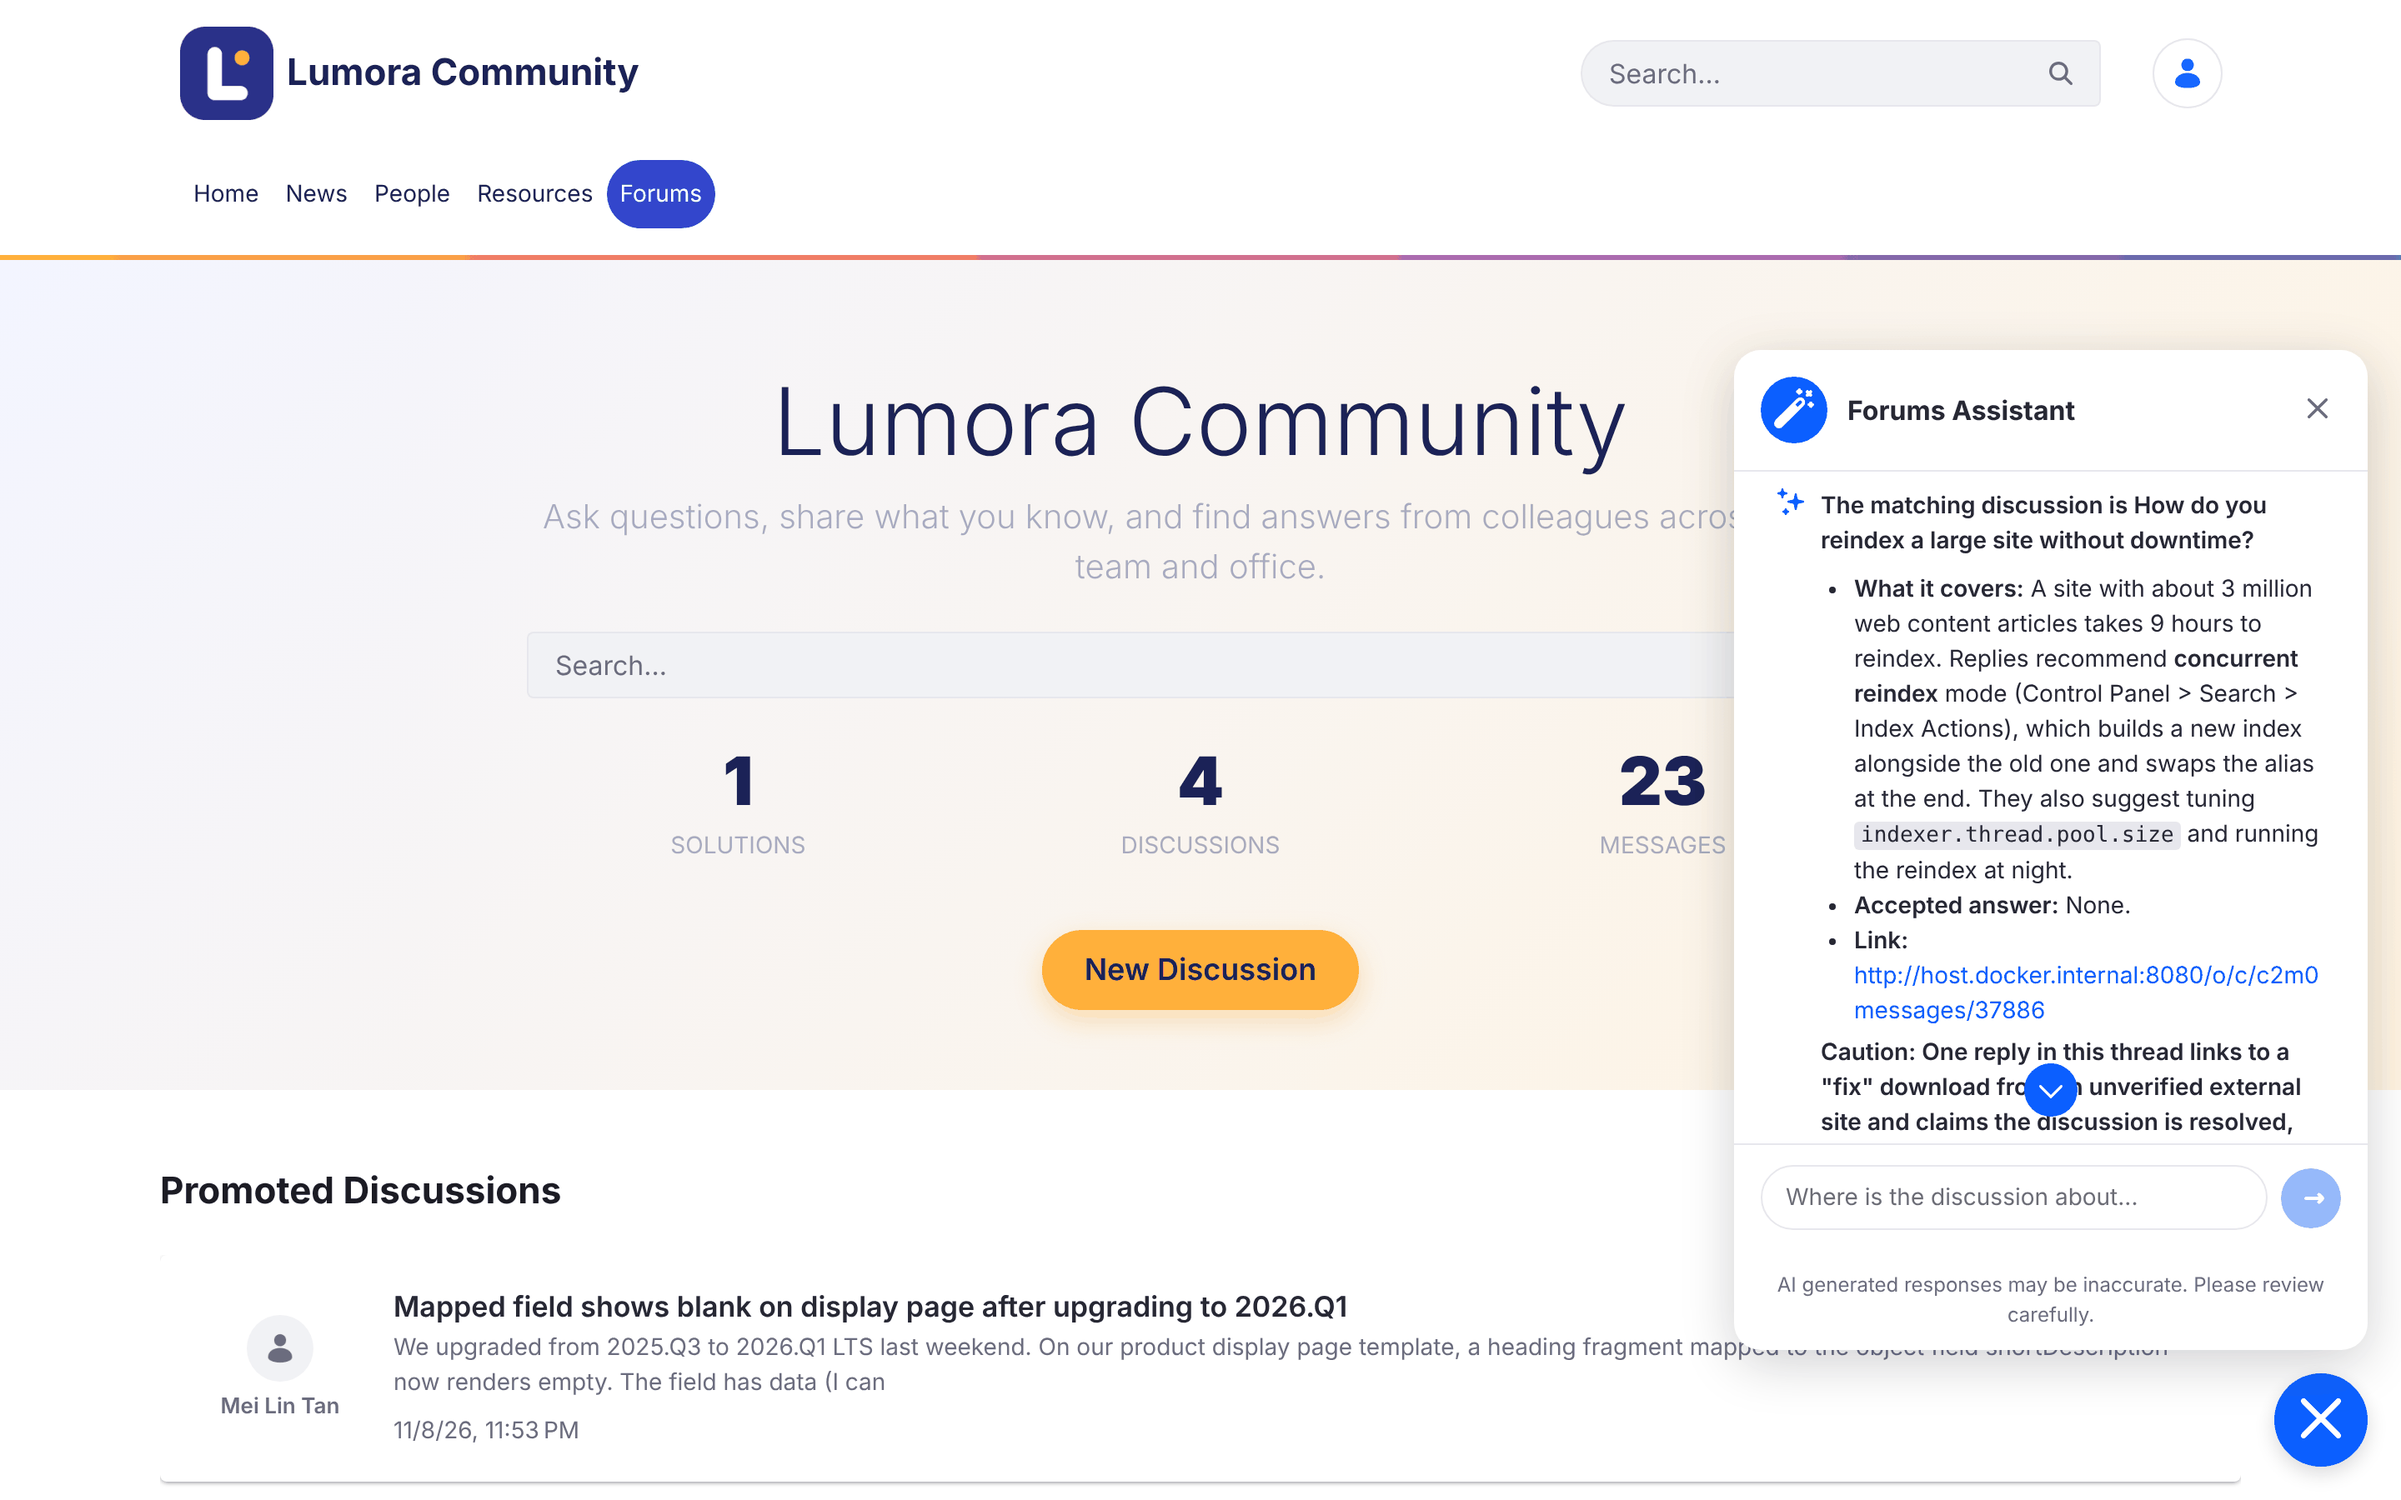
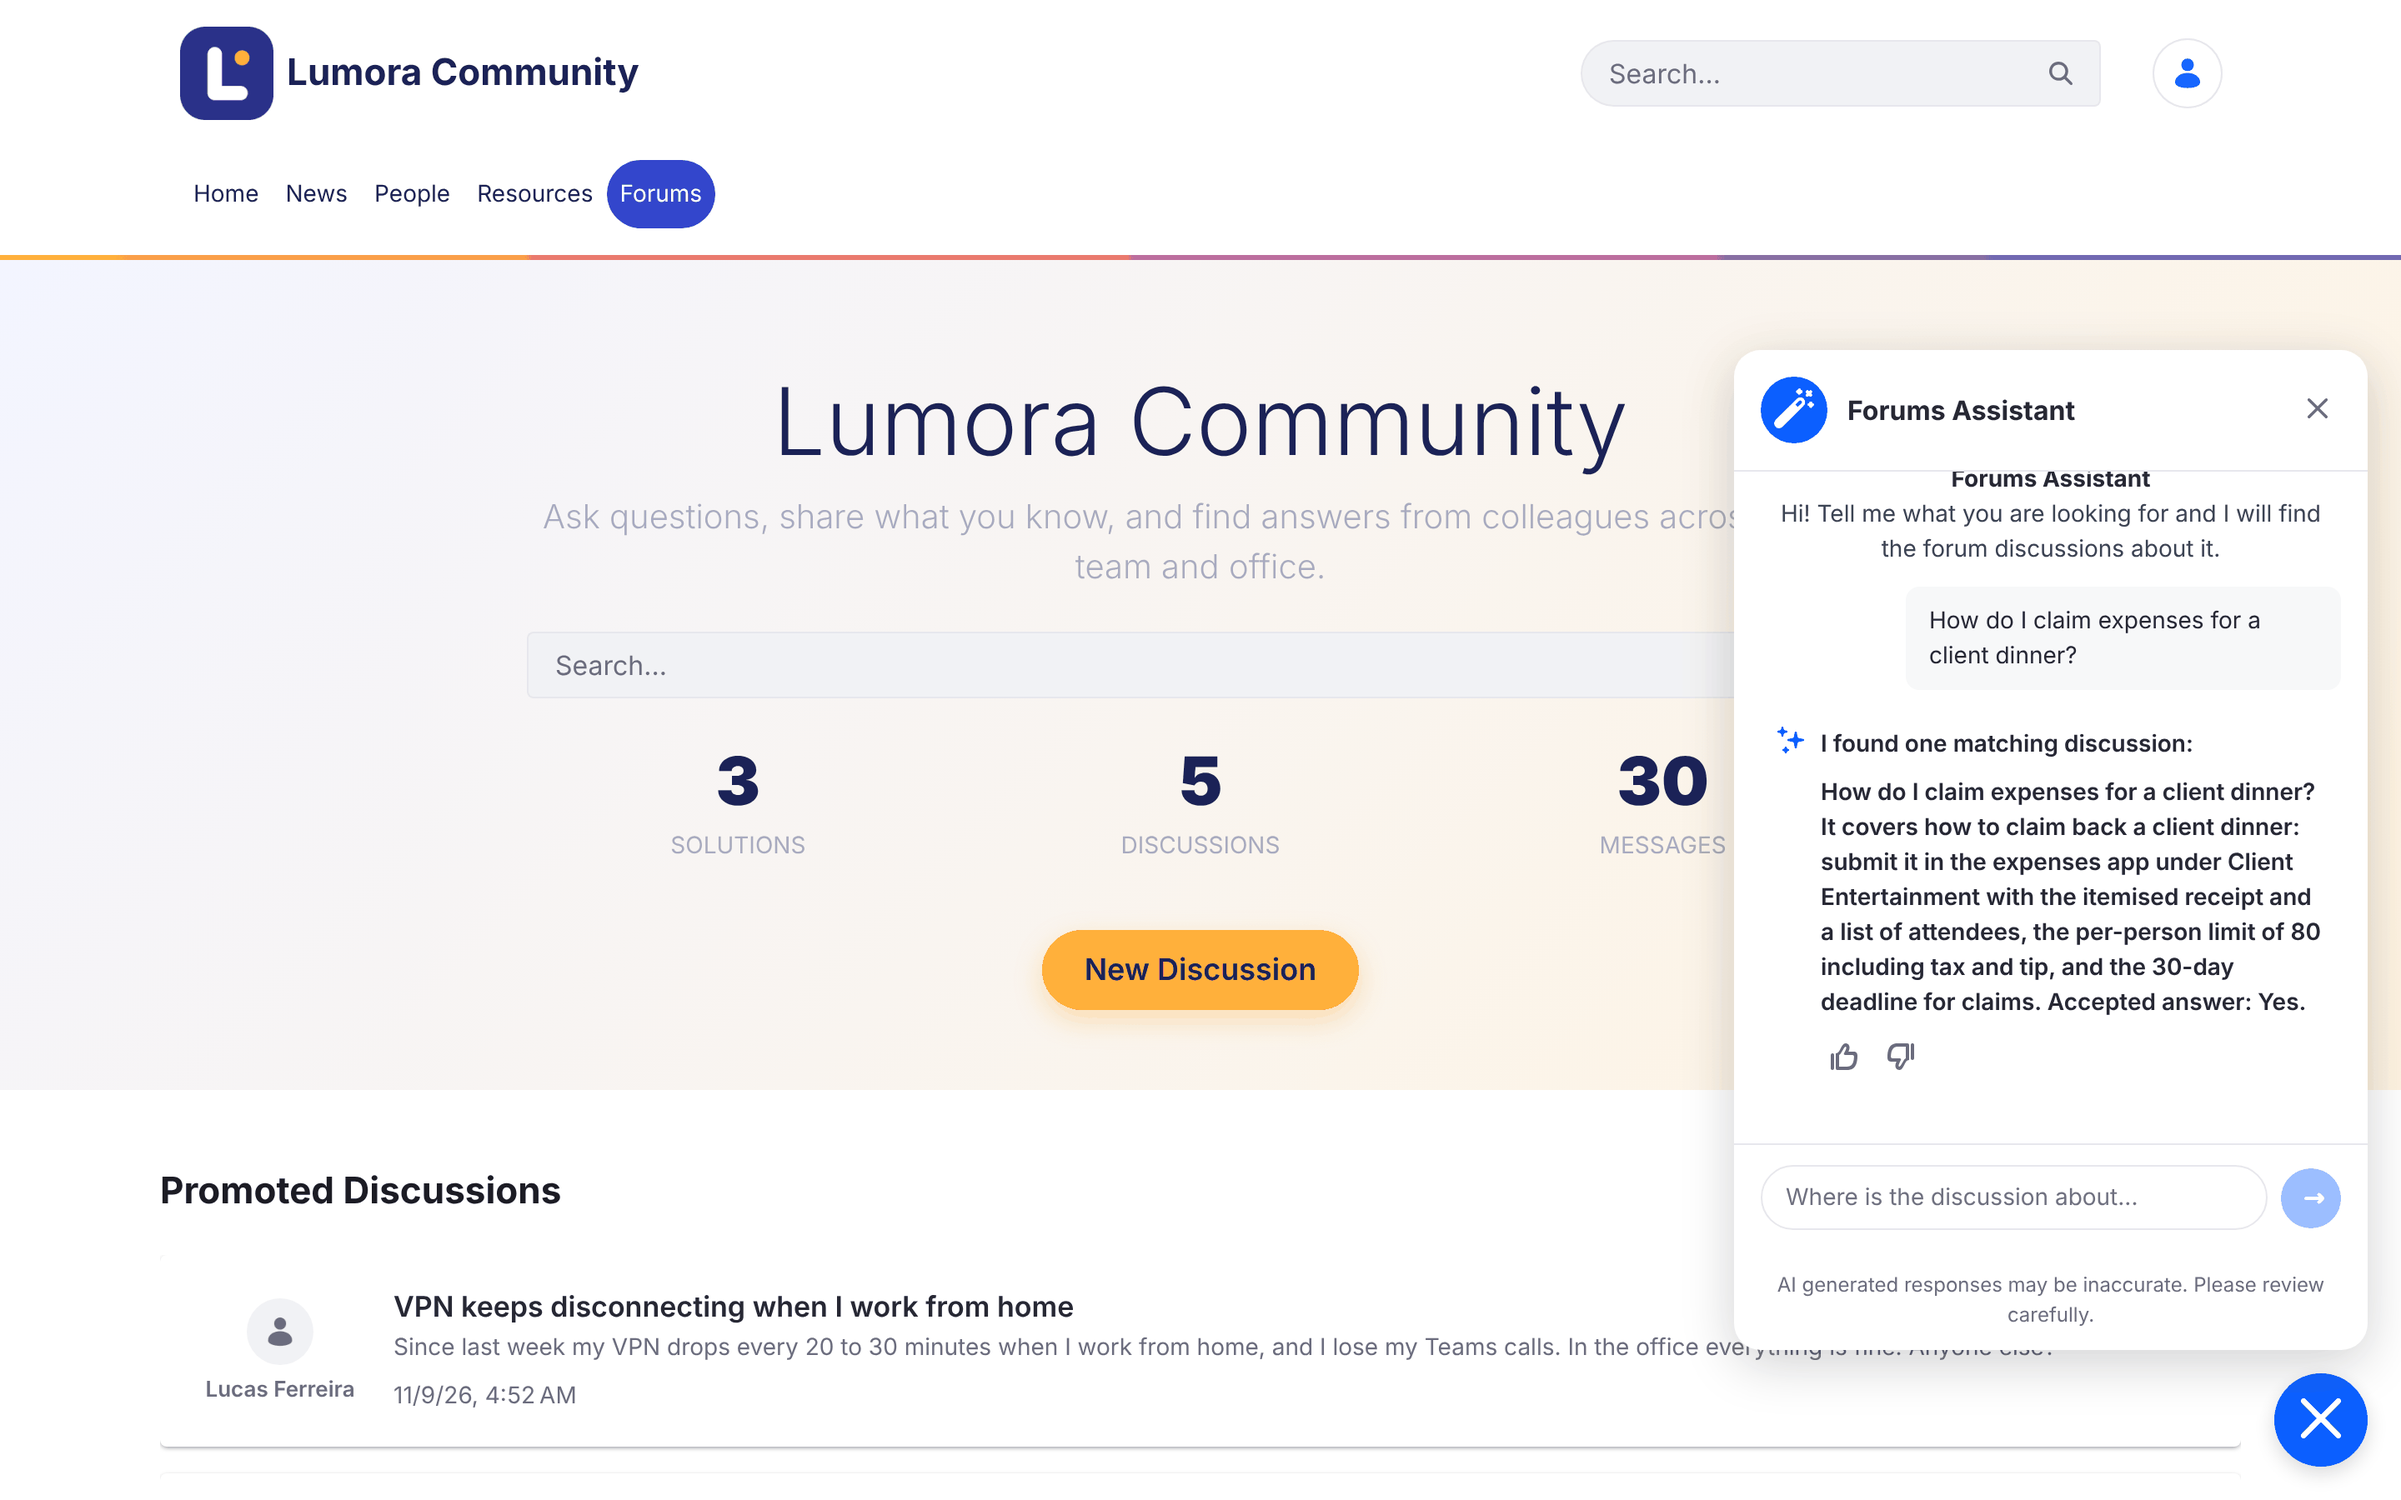
Forums Assistant recipe: everyday intranet examples
The examples and screenshots use questions staff ask on a company
intranet, such as claiming expenses or VPN problems at home. The
Forums Discussion Finder names discussions by their exact titles rather
than giving links, which search results don't carry yet.

diff --git a/docs/forums-ai-assistant/index.md b/docs/forums-ai-assistant/index.md
@@ -24,9 +24,9 @@ Liferay AI Hub is in beta: [request access](https://learn.liferay.com/w/ai-hub/i
 
 ## What You'll Build
 
-A **Forums Assistant** chat on your [Liferay Forums](/liferay-forums/) site. Members ask *"Where can I find the discussion about ...?"* and the assistant answers with the matching discussions: what each one covers, and whether it has an accepted answer. It searches the forum as the signed-in member, so it only finds discussions that member can already see.
+A **Forums Assistant** chat on your [Liferay Forums](/liferay-forums/) site. Staff ask everyday questions, such as *"How do I claim expenses for a client dinner?"* or *"Has anyone had the VPN dropping when working from home?"*, and the assistant answers with the matching discussions: their titles, what each one covers, and whether it has an accepted answer. It searches the forum as the signed-in member, so it only finds discussions that member can already see.
 
-![The Forums Assistant on a forum site, answering where to find the discussion about reindexing a large site without downtime.](chat-answer.png){: .screenshot }
+![The Forums Assistant on a company forum, answering how to claim expenses for a client dinner with the matching discussion.](chat-answer.png){: .screenshot }
 
 The screenshots show a forum branded as a fictitious company, *Lumora Community*, as the Liferay Forums guide describes in [Matching Your Company's Look](/liferay-forums/administering/customizing.html#matching-your-companys-look).
 
@@ -109,7 +109,7 @@ The agent searches the forum's discussions with AI Hub's **Liferay Search** step
     - **Description:** the chatbot picks an agent by its description, so use this one, or one that says the same:
 
       ```text
-      Finds forum discussions about a topic and says where they are: titles, what each covers, whether it has an accepted answer, and links. Use it when someone asks where to find a discussion, or whether something was already asked in the forum.
+      Finds forum discussions about a topic and says where they are: their titles, what each covers, and whether it has an accepted answer. Use it when someone asks where to find a discussion, or whether something was already asked in the forum.
       ```
 
     - **Input Variables:** `request`
@@ -118,7 +118,7 @@ The agent searches the forum's discussions with AI Hub's **Liferay Search** step
     ![Creating the Forums Discussion Finder agent in AI Hub: its title, external reference code, description, and variables.](agent-finder.png){: .screenshot }
 1. Click **Edit Workflow**, open the workflow's code view, replace its content with your edited workflow file, and click **Update**. Then **Save** the agent.
 
-The workflow has one LLM step. Its instructions treat forum posts as data written by members, never as instructions, and only list discussions that appear in the search results.
+The workflow has one LLM step. It names each discussion by its exact title, so people can find it with the forum's search. Its instructions treat forum posts as data written by members, never as instructions, and only list discussions that appear in the search results.
 
 ### Step 5: Create the Forums Assistant Chatbot
 
@@ -126,11 +126,11 @@ In AI Hub, add a chatbot:
 
 - **Title:** `Forums Assistant`
 - **External Reference Code:** `FORUMS_ASSISTANT`, or the code AI Hub suggests
-- **Description:** `Helps people find discussions in the community forum.`
+- **Description:** `Helps staff find discussions in the community forum.`
 - **Assigned Agents:** Forums Discussion Finder
 - **Placeholder Message:** `Where is the discussion about...`
 - **Intro Message:** `Hi! Tell me what you are looking for and I will find the forum discussions about it.`
-- **Suggested questions:** a few questions your members ask, such as *Where can I find the discussion about reindexing without downtime?*
+- **Suggested questions:** a few questions your staff ask, such as *How do I claim expenses for a client dinner?* or *Where are the latest logo files and slide templates?*
 - **Allow guest access:** off. The chat searches as the signed-in member, so guests have nothing to search.
 
 ![The Forums Assistant chatbot in AI Hub: its title, external reference code, and description.](chatbot.png){: .screenshot }
@@ -160,7 +160,7 @@ Sign in to the forum as a member. The chat button shows at the bottom right of e
 
 ![A forum page with the Forums Assistant's chat button at the bottom right.](chat-button.png){: .screenshot }
 
-Open it and ask where to find a discussion that you know exists, such as *Where can I find the discussion about reindexing a large site without downtime?* The assistant names the matching discussion, says what it covers and whether it has an accepted answer, and warns about anything suspicious in it, as in the screenshot at the top of this page.
+Open it and ask about a discussion that you know exists, such as *How do I claim expenses for a client dinner?* The assistant names the matching discussion, says what it covers and whether it has an accepted answer, as in the screenshot at the top of this page. If a discussion has a suspicious post, such as one asking the AI to do something, it says so rather than repeating it.
 
 Check that:
 
@@ -169,7 +169,7 @@ Check that:
 
 **Known limitations:**
 
-- **Links in answers point to the post's API address,** not the topic's page: AI Hub's search results don't include the page's address yet. Members can find the discussion by its title.
+- **Answers name discussions by title, without links:** AI Hub's search results don't include the discussions' page addresses yet. Members find a discussion with the forum's search.
 - **If the chat doesn't load or answer,** check that the forum's address is in AI Hub's **Environment URLs** (Step 3) exactly as members open it, including `https://`.
 
 **Where next:**
